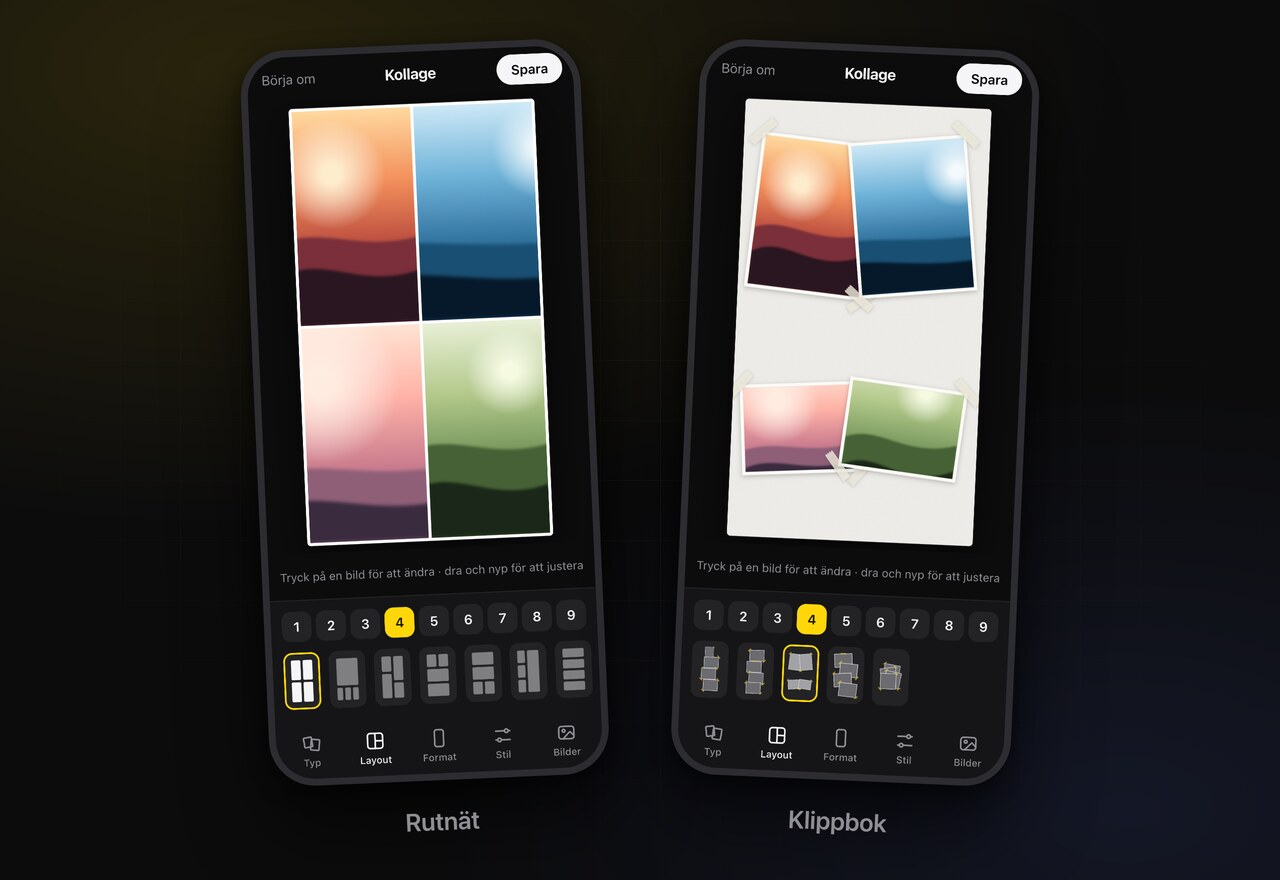
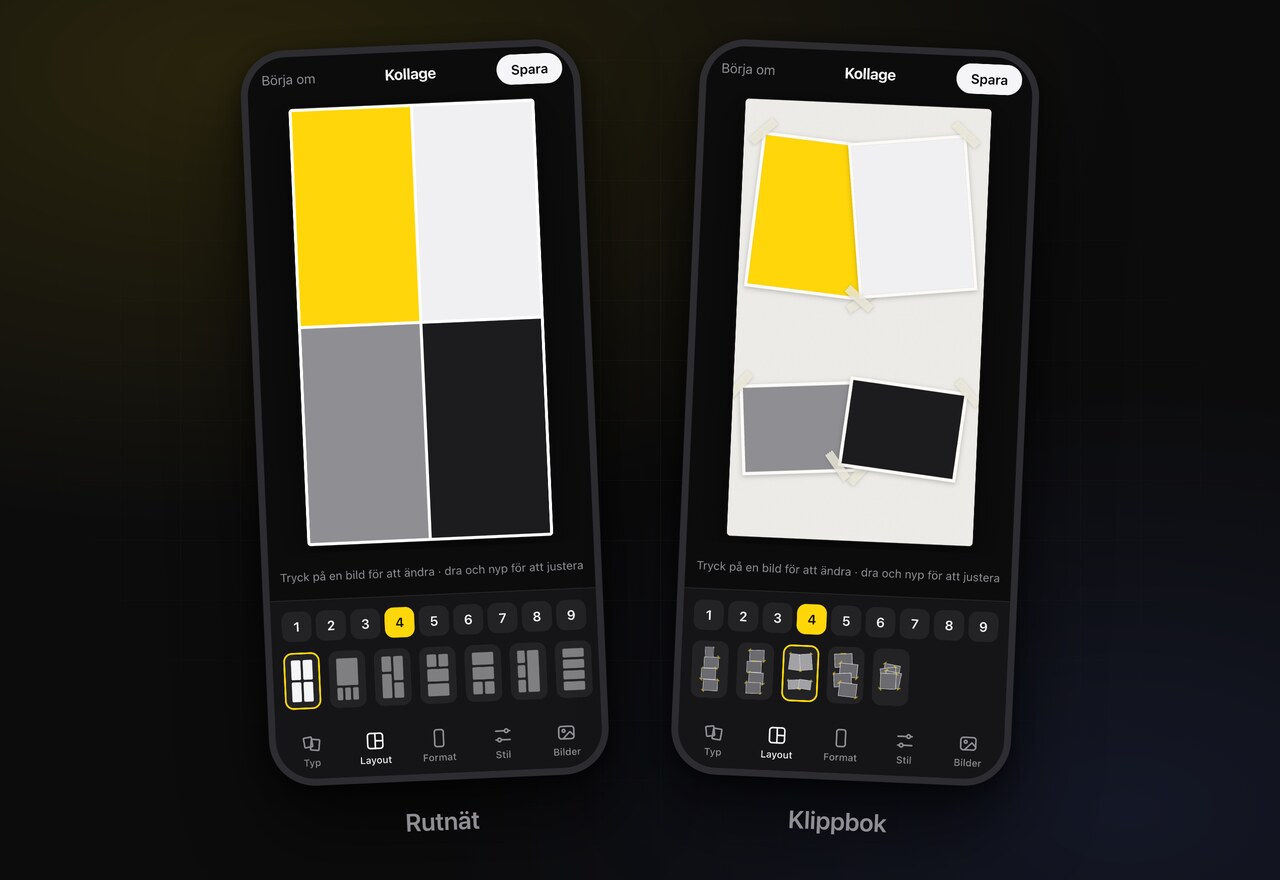
Rita delbilderna med ikonens färger i stället för gradienter
De fejkade landskapen såg ut som foton utan att vara det. Fyra solida block
i gult, pappersvitt, grått och nästan svart visar i stället vad appen gör med
formerna, och är samma färger som ikonen.

Changed region(s): [[0.2188, 0.092, 0.4375, 0.6136], [0.5625, 0.1534, 0.7812, 0.3375], [0.5625, 0.4295, 0.75, 0.5523]]

diff --git a/docs/card/fill-app.js b/docs/card/fill-app.js
@@ -1,0 +1,52 @@
+// Fills a running Kollage with solid blocks in the icon's own colours, so the
+// share cards show the app's shapes rather than pretend holiday pictures.
+// `target` is an iframe element, or a window to drive that document directly.
+window.fillApp = async function fillApp(target, { kind = 0, layout = 0 } = {}) {
+  const wait = (ms) => new Promise((r) => setTimeout(r, ms))
+  // An iframe starts on about:blank, so read the document fresh each time
+  // instead of capturing one that is about to be replaced.
+  const win = () => ('contentWindow' in target ? target.contentWindow : target)
+  const doc = () => win() && win().document
+  const q = (sel) => doc().querySelectorAll(sel)
+
+  while (!doc() || doc().readyState !== 'complete' || !doc().querySelector('input[type=file]')) await wait(50)
+  win().Element.prototype.setPointerCapture = () => {}
+
+  // Yellow, paper white, grey, near-black — the four fills in icon.svg.
+  const BLOCKS = [
+    { w: 1200, h: 1600, fill: '#ffd60a' },
+    { w: 1600, h: 1200, fill: '#f0f0f2' },
+    { w: 1200, h: 1200, fill: '#8e8e93' },
+    { w: 1200, h: 1600, fill: '#1c1c1f' },
+  ]
+
+  const dt = new (win().DataTransfer)()
+  for (const [i, { w, h, fill }] of BLOCKS.entries()) {
+    const cv = doc().createElement('canvas')
+    cv.width = w
+    cv.height = h
+    const x = cv.getContext('2d')
+    x.fillStyle = fill
+    x.fillRect(0, 0, w, h)
+    const blob = await new Promise((r) => cv.toBlob(r, 'image/png'))
+    dt.items.add(new (win().File)([blob], `block${i + 1}.png`, { type: 'image/png' }))
+  }
+  const input = doc().querySelector('input[type=file]')
+  input.files = dt.files
+  input.dispatchEvent(new (win().Event)('change', { bubbles: true }))
+
+  while (!doc().querySelector('.surface')) await wait(50)
+  await wait(300)
+  q('.tab')[0].click()
+  await wait(150)
+  q('.kind')[kind].click()
+  await wait(200)
+  q('.tab')[1].click()
+  await wait(250)
+  if (layout) {
+    q('.thumb')[layout].click()
+    await wait(300)
+  }
+  await wait(400)
+  return true
+}

diff --git a/CLAUDE.md b/CLAUDE.md
@@ -120,12 +120,13 @@ hand. The sources are in [docs/card/](docs/card/): `og.html` and `hero.html`
 share `card.css`, and both expect two phone screenshots named `shot-grid.png`
 and `shot-klippbok.png` beside them.
 
-To redo them: run the dev server, open the app in headless Chrome at
-`375x812` with `--force-device-scale-factor=3`, run
-[docs/card/demo-photos.js](docs/card/demo-photos.js) in the page (it generates
-four stand-in landscapes and drops them into the file input, so no real
-photos end up in a public repo), screenshot one grid and one scrapbook
-collage into `docs/card/`, then screenshot the two cards at 2× and downscale:
+To redo them: run the dev server, open the app at `375x812` with a device
+pixel ratio of 3, load [docs/card/fill-app.js](docs/card/fill-app.js) and call
+`fillApp(window, { kind, layout })`. It fills the collage with solid blocks in
+the icon's four colours — yellow, paper white, grey, near-black — so the cards
+show the app's shapes instead of stand-in photos, and no real pictures end up
+in a public repo. Screenshot one grid and one scrapbook collage into
+`docs/card/`, then screenshot the two cards at 2× and downscale:
 
 ```bash
 chrome --headless=new --screenshot=og.png --window-size=1200,630 \
